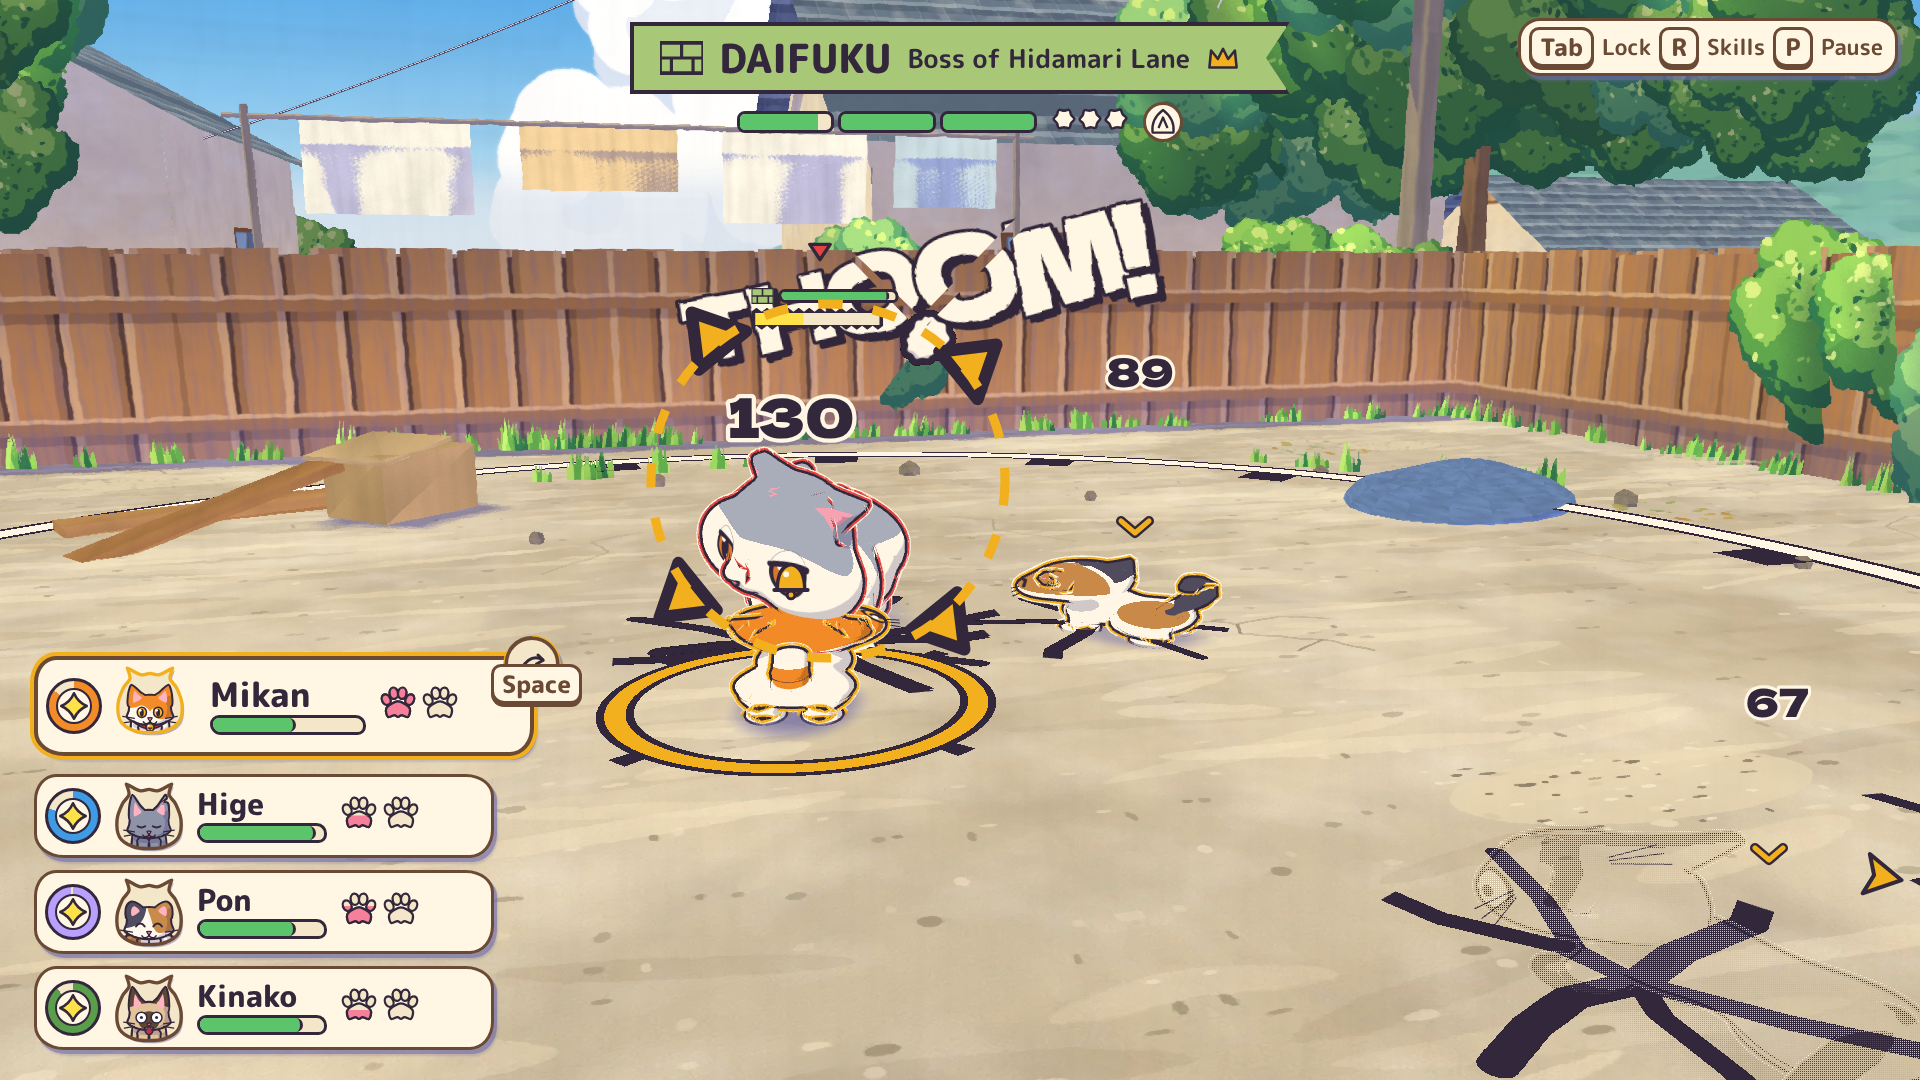
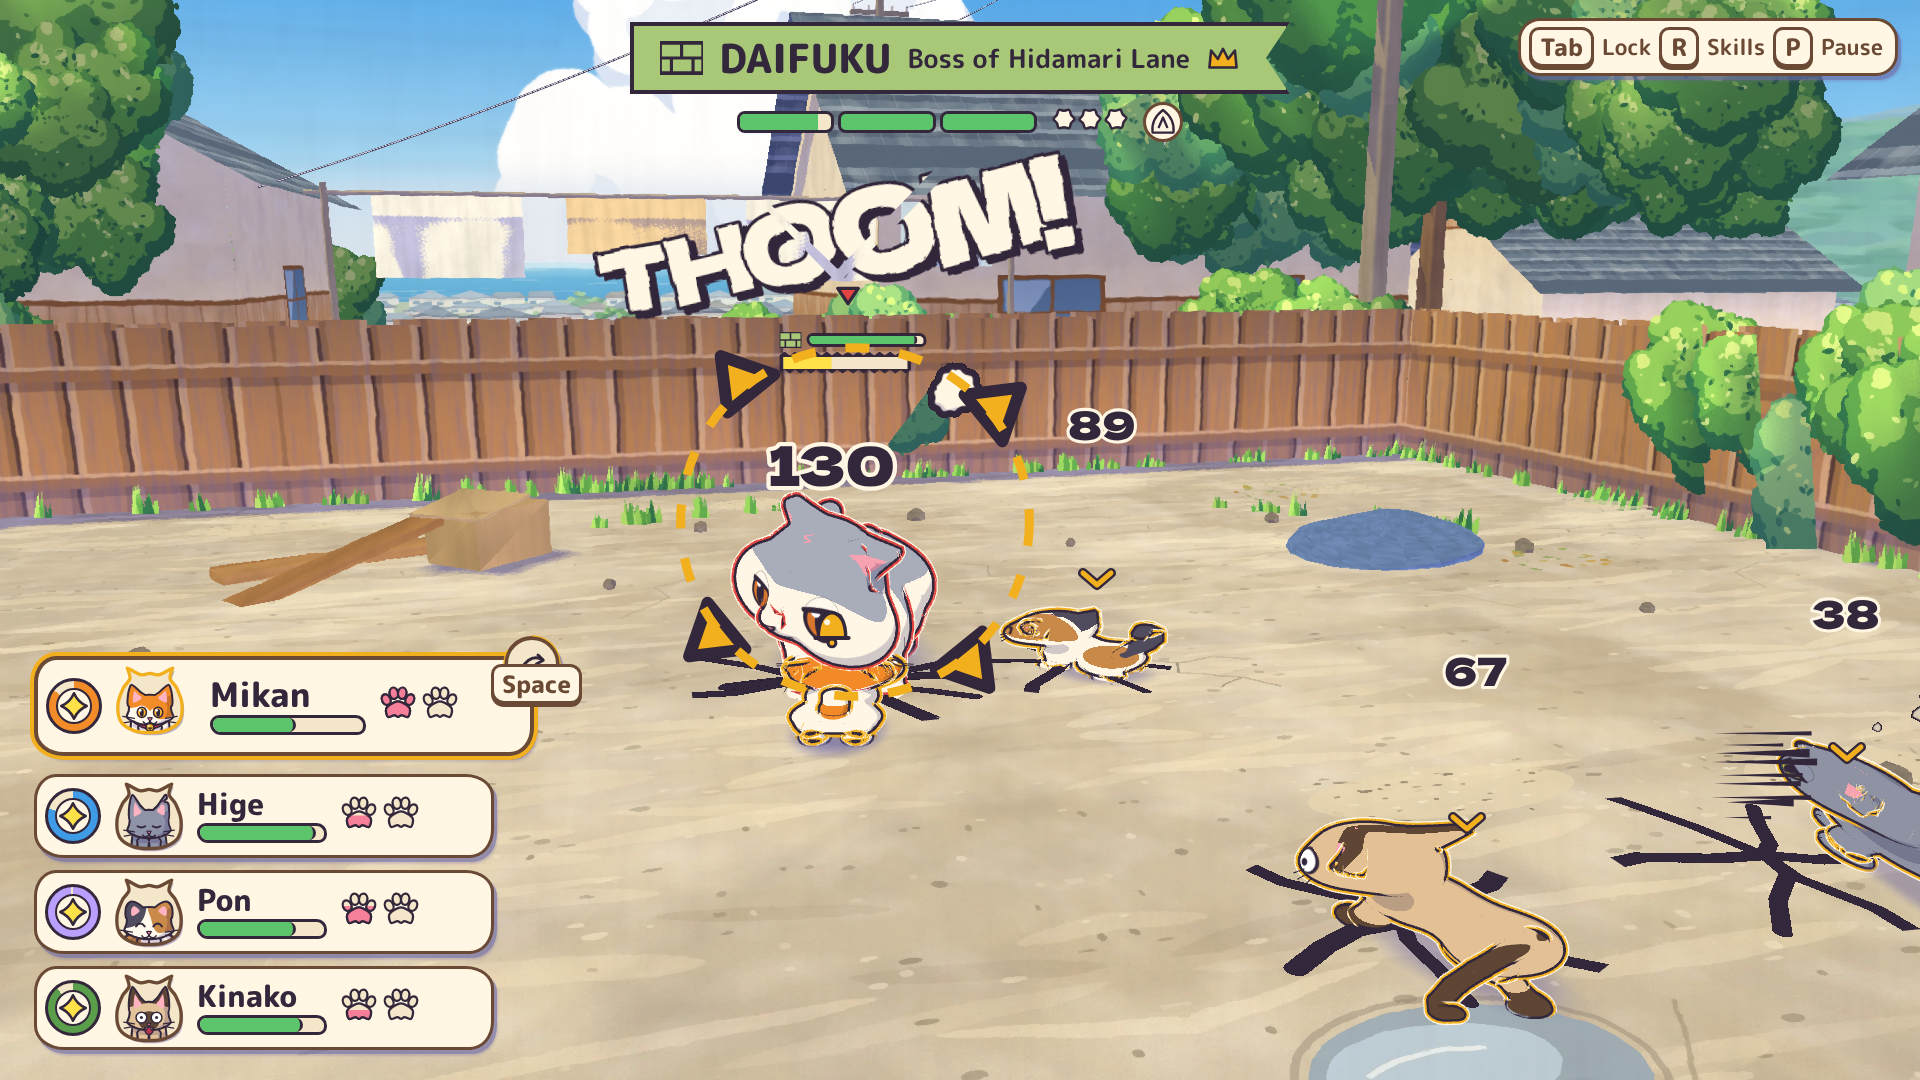
fix(M1.2): routed cats got NaN positions (missing velocity on the routed act); finite-state regression test over 50 seeds
Claude-Session: https://claude.ai/code/session_01K9BzCtu5ca2nRxDXecreHZ

diff --git a/prototypes/artifact-slice/src/render/vfx/fighters.js b/prototypes/artifact-slice/src/render/vfx/fighters.js
@@ -36,7 +36,7 @@ export const CAST_MAP = {
   kinako: { cast: 'kinako', rank: 1, kit: { coat: { base: '#E3C39A', patch: '#5E4636' }, pattern: 'pointed', tail: 'whip', ears: 'tall', build: 'long', carry: 'comma', eye: 'blue', expr: 'shock' } },
   togemaru: { cast: 'togemaru', rank: 1, kit: { coat: { base: '#37323F', white: '#D9A060', patch: '#D9A060' }, pattern: 'tuxedo', tail: 'plume', ears: 'standard', build: 'long', carry: 'flag', eye: 'yellowgreen', expr: 'smug', scars: ['notch'] } },
   kagi: { cast: 'kagi', rank: 1.15, kit: { coat: { base: '#CDD1DC', patch: '#7D8397' }, pattern: 'tabby', tail: 'whip', ears: 'tall', build: 'long', carry: 'blade', eye: 'yellowgreen', expr: 'smug' } },
-  daifuku: { cast: 'daifuku', rank: 1.6, kit: { coat: { base: '#FFF8EC', patch: '#A9AEC0' }, pattern: 'saddle', tail: 'stub', ears: 'round', build: 'round', carry: 'anchor', eye: 'copper', expr: 'smug' } },
+  daifuku: { cast: 'daifuku', rank: 1.6, extra: 1.25, kit: { coat: { base: '#FFF8EC', patch: '#A9AEC0' }, pattern: 'saddle', tail: 'stub', ears: 'round', build: 'round', carry: 'anchor', eye: 'copper', expr: 'smug' } },
   goma: { cast: 'tough', opts: { coat: 'chocolate', pattern: 'tabby', tail: 'ringed', ears: 'round', build: 'round', personality: 'brooder', rank: 1.08, eye: 'copper', seed: 11 } },
   sasa: { cast: 'tough', opts: { coat: { base: 'cream', patch: '#C99A55' }, pattern: 'tabby', tail: 'plume', ears: 'tall', build: 'long', personality: 'schemer', eye: 'yellowgreen', seed: 12 } },
   stray: [
@@ -113,8 +113,9 @@ export class Fighter {
   constructor(ent, o = {}) {
     this.id = ent.id; this.side = ent.side; this.catId = ent.cat;
     const m = castFor(ent.cat, ent.id);
-    this.cat = createCat({ cast: m.cast, scale: 1.25, ...(m.opts || {}), lod: 'auto' });
-    this.scaleK = m.rank || 1; this.lodMode = 'auto';
+    // `extra`: the Boss reads as the heavyweight (art bible's biggest build) on top of his cast rank
+    this.cat = createCat({ cast: m.cast, scale: 1.25 * (m.extra || 1), ...(m.opts || {}), lod: 'auto' });
+    this.scaleK = (m.rank || 1) * (m.extra || 1); this.lodMode = 'auto';
     this.root = new THREE.Group(); this.pose = new THREE.Group();
     this.root.add(this.pose); this.pose.add(this.cat.object3D);
     this.root.name = 'fighter:' + ent.id;
@@ -251,7 +252,7 @@ export class Fighter {
     P.scale.set(xx, yy, xx * zz);
     // keyline: Frazzle Magenta while Frazzled; the Ruffled rim pulses in two steps (≤ 3 Hz)
     if (this.kl) {
-      const want = e.frazzled_s > 0 ? 'magenta' : (this.side === 'enemy' ? 'red' : 'gold');
+      const want = this.side === 'enemy' ? 'red' : 'gold';   // the agreed side colours always; stagger reads from spirals and the ring
       if (want !== this.clowder) this.setClowder(want);
       const ruff = e.ruffled_s > 0 || e.ruffled_s === -1;
       this.kl.rim.mesh.userData.w = ruff ? (Math.floor(tw * 5) % 2 ? 1.0 : 2.2) : 1.0;

diff --git a/prototypes/artifact-slice/src/render/vfx/fx.js b/prototypes/artifact-slice/src/render/vfx/fx.js
@@ -78,10 +78,17 @@ const decalFrag = /* glsl */`
       if (d < 0.07) { col = d < 0.045 ? (an <= fill ? MAG : CREAM) : INK; gl_FragColor = vec4(col, 1.0); return; }
       discard;
     }
-    if (kind == 6) { // shockwave: a thick Cream ring with Ink edges, the slam front (fill = progress 0..1)
-      float d = abs(r - R); float band = 0.09 + 0.06 * (1.0 - fill);
-      if (d < band) { col = d < band - 0.04 ? CREAM : INK; gl_FragColor = vec4(col, 1.0); return; }
-      if (r < R && r > R - 0.35 && fract(atan(p.y, p.x) * 3.0) < 0.2) { gl_FragColor = vec4(INK, 1.0); return; }   // speed ticks behind the front
+    if (kind == 6) { // shockwave (M1.2 §9): the hitting band (wid = the sim's width) as a Cream ring with magenta hatching and
+      // heavy Ink edges, a dashed magenta boundary at the max radius (the whole danger zone), ink speed ticks behind the front
+      float hw = wid * 0.5, d = abs(r - R);
+      if (d < hw + 0.06) {
+        if (d > hw) col = INK;
+        else col = fract((p.x + p.y) * 3.2) < 0.32 ? MAG : CREAM;
+        gl_FragColor = vec4(col, 1.0); return;
+      }
+      float dm = abs(r - len);
+      if (dm < 0.07 && fract(atan(p.y, p.x) * 9.0) < 0.55) { gl_FragColor = vec4(dm < 0.035 ? MAG : INK, 1.0); return; }
+      if (r < R - hw && r > R - hw - 0.5 && fract(atan(p.y, p.x) * 5.0) < 0.12) { gl_FragColor = vec4(INK, 1.0); return; }
       discard;
     }
     if (kind == 5) { // Tag-In spark ring: a Bell-Gold ring with spikes popping outward
@@ -170,7 +177,7 @@ export class WorldFX {
   clearNear(at, r) { for (const it of this.items) if (!it.ground && !it.keep && it.mesh.position.distanceTo(at) < r) it.dead = true; }
 
   /** Belly-flop shockwave (M1.2 §9): a ring expanding from `at` to `radius` m over `dur` s, stepped on twos. */
-  shockwave(at, radius, dur, o = {}) { const d = decal(6, { R: o.r0 || 0.3 }); d.position.set(at.x, 0.02, at.z); d.scale.setScalar(radius + 0.5); d.renderOrder = 7; this.decals.add(d); this.waves.push({ d, t: 0, radius, dur, linear: !!o.linear, r0: o.r0 || 0.3 }); }
+  shockwave(at, radius, dur, o = {}) { const d = decal(6, { R: o.r0 || 0.3 }); d.material.uniforms.wid.value = o.width || 0.7; d.material.uniforms.len.value = radius; d.position.set(at.x, 0.02, at.z); d.scale.setScalar(radius + 0.5); d.renderOrder = 7; this.decals.add(d); this.waves.push({ d, t: 0, radius, dur, linear: !!o.linear, r0: o.r0 || 0.3 }); }
 
   tagRing(at, col) { const d = decal(5, { R: 0.4, colA: col || '#F2B01E' }); d.scale.setScalar(1.4); d.position.set(at.x, at.y + 0.02, at.z); this.decals.add(d); this.tagRings.push({ d, t: 0 }); }
 

diff --git a/prototypes/artifact-slice/src/render/vfx/screen.js b/prototypes/artifact-slice/src/render/vfx/screen.js
@@ -264,14 +264,14 @@ export class ScreenFX {
     if (!W.place && ctx.pile) { W.place = { x: Math.max(est / 2 + 30, ctx.w * 0.06 + est / 2), y: ctx.h * 0.17 }; W.rot = -9; }
     if (!W.place) {
       const cb = ctx.controlledBox, hud = ctx.hudRects || [];
-      const cands = [[0.25, -1.1], [-0.25, -1.1], [0.6, -0.6], [-0.6, -0.6], [0, -1.5], [0.8, 0.1], [-0.8, 0.1]];
+      const cands = [[0.25, -1.1], [-0.25, -1.1], [0.6, -0.6], [-0.6, -0.6], [0, -1.5], [0.8, 0.1], [-0.8, 0.1], [0.9, -1.4], [-0.9, -1.4], [1.1, 0.6], [-1.1, 0.6], [0, 1.2], [0, -2.2]];
       let best = null, bestScore = -1e9;
       for (const [ox, oy] of cands) {
         let x = anchor.x + ox * est, y = anchor.y + oy * ht;
         x = Math.min(ctx.w - est / 2 - 24, Math.max(est / 2 + 24, x)); y = Math.min(ctx.h - ht / 2 - 24, Math.max(ht / 2 + 24, y));
         const box = { x: x - est / 2, y: y - ht / 2, w: est, h: ht };
         const ov = (r) => Math.max(0, Math.min(box.x + box.w, r.x + r.w) - Math.max(box.x, r.x)) * Math.max(0, Math.min(box.y + box.h, r.y + r.h) - Math.max(box.y, r.y));
-        let score = -ov(cb) * 4 - hud.reduce((a, r) => a + ov(r) * 3, 0) - Math.hypot(x - anchor.x, y - anchor.y) * 0.2;
+        let score = -ov(cb) * 4 - hud.reduce((a, r) => a + ov(r) * 40, 0) - Math.hypot(x - anchor.x, y - anchor.y) * 0.2;   // any HUD overlap outweighs distance
         if (score > bestScore) { bestScore = score; best = { x, y }; }
       }
       W.place = best; W.rot = W.tier >= 5 ? -10 : (W.dir && W.dir[0] < 0 ? 10 : -10);

diff --git a/prototypes/artifact-slice/src/camera/combat.js b/prototypes/artifact-slice/src/camera/combat.js
@@ -64,7 +64,7 @@ export class CombatCamera {
     }
     // M1.1: UNLOCKED (default) = a free third-person orbit around Mikan, driven only by the mouse / right stick
     if (ctx.free && !ctx.slowBlink) {
-      s.px = C.x; s.pz = C.z; s.py = C.y + c.pivotH; s.dist = c.dist; s.shoulder = c.shoulder * 0.6;
+      s.px = C.x; s.pz = C.z; s.py = C.y + c.pivotH + Math.max(0, (ctx.bigK || 1) - 1) * 0.25; s.dist = c.dist * (1 + Math.max(0, (ctx.bigK || 1) - 1) * 0.3); s.shoulder = c.shoulder * 0.6;   // a big opponent nearby: pull back and up so the heavyweight fits
       s.pitch = this.freePitch ?? c.pitch; s.yaw = this.pose.yaw; this.userYaw = 0;
       return s;
     }
@@ -78,7 +78,7 @@ export class CombatCamera {
       const far = Math.max(0, Math.min(1, (sep - c.farFrom) / 3));
       s.dist = c.dist + (c.distFar - c.dist) * far;
       s.pitch = ctx.highRoad ? c.pitchHigh : c.pitch + (c.pitchFar - c.pitch) * far;
-      s.shoulder = c.shoulder;
+      s.shoulder = c.shoulder; s.dist *= 1 + Math.max(0, (ctx.bigK || 1) - 1) * 0.3; s.py += Math.max(0, (ctx.bigK || 1) - 1) * 0.25;
       if (this.relayHold > t) s.dist = Math.max(s.dist, this.pose.dist);
     }
     // yaw: behind the cat on the target->cat line; free orbit wins for 1 s after input

diff --git a/prototypes/artifact-slice/src/entries/combat.js b/prototypes/artifact-slice/src/entries/combat.js
@@ -597,7 +597,8 @@ function present(dt, alpha, menu = [], cut = null) {
   let offFrame = false;
   if (T && C) { const a = project(T.head), b = project(C.pos); offFrame = Math.abs(a.nx) > 0.6 || Math.abs(b.nx) > 0.8 || b.ny < -0.75 || a.ny > 0.75; }
   const standoffK = s.mode === 'standoff' ? Math.min(1, s.t / 3) : 0;
-  ccam.update(dt, realT, { free: !T, C: C ? C.pos.clone() : new THREE.Vector3(), T: T ? T.pos.clone() : null, enemiesCentroid: cen, aspect: cam.aspect, slowBlink: s.slow_blink,
+  const bigK = C ? Math.max(1, ...[...fighters.values()].filter((f) => f.side === 'enemy' && f.root.visible && f.pos.distanceTo(C.pos) < 5).map((f) => f.scaleK)) : 1;
+  ccam.update(dt, realT, { bigK, free: !T, C: C ? C.pos.clone() : new THREE.Vector3(), T: T ? T.pos.clone() : null, enemiesCentroid: cen, aspect: cam.aspect, slowBlink: s.slow_blink,
     highRoad: C && T && Math.abs(C.pos.y - T.pos.y) > 0.6, mode: pile && pile.phase === 'main' ? 'pileon' : s.mode, pileCenter: pile ? pile.centerW : null,
     standoffFocus, standoffK, offFrame, globalStop, targetNY: T ? project(T.head).ny : null, clearance, occluded: C ? (pose) => occludedAt(pose, [C.head, T ? T.head : null]) : null });
   // impact frame state

diff --git a/prototypes/artifact-slice/src/ui/combat/hud.js b/prototypes/artifact-slice/src/ui/combat/hud.js
@@ -217,7 +217,9 @@ export class CombatHUD {
   /** Screen rectangles the lettering must avoid (BL plates, TC ribbon, Slow Blink menu). */
   rects() {
     const out = [];
-    for (const el of [this.bl.querySelector('.ch-plates'), this.tc.firstElementChild, this.sbEl && this.sbEl.firstElementChild]) {
+    // world-anchored HUD too (bars, reticle, ticks, prompts, balloons): lettering never covers them
+    for (const el of this.wEls.values()) { if (el.style.display === 'none') continue; const r = el.getBoundingClientRect(); if (r.width) out.push({ x: r.left - 8, y: r.top - 8, w: r.width + 16, h: r.height + 16 }); }
+    for (const el of [this.bl.querySelector('.ch-plates'), this.tc.firstElementChild, this.tc.children[1], this.keysEl, this.sbEl && this.sbEl.firstElementChild]) {
       if (!el) continue; const r = el.getBoundingClientRect(); if (r.width) out.push({ x: r.left, y: r.top, w: r.width, h: r.height });
     }
     return out;
